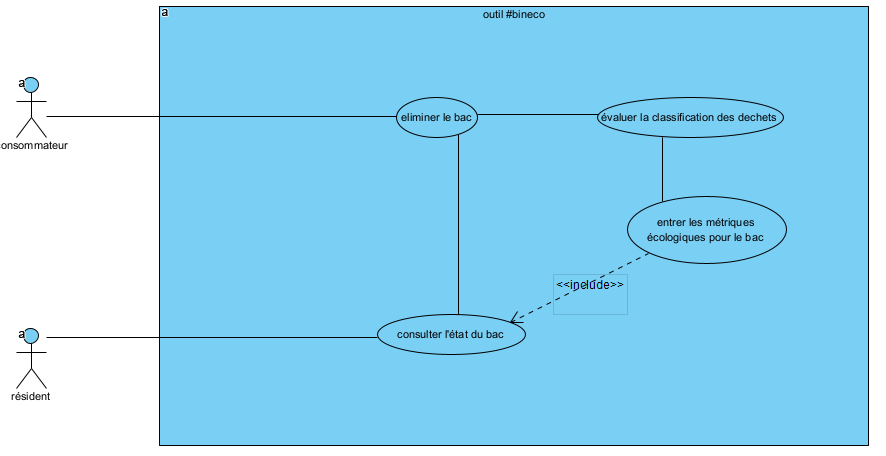
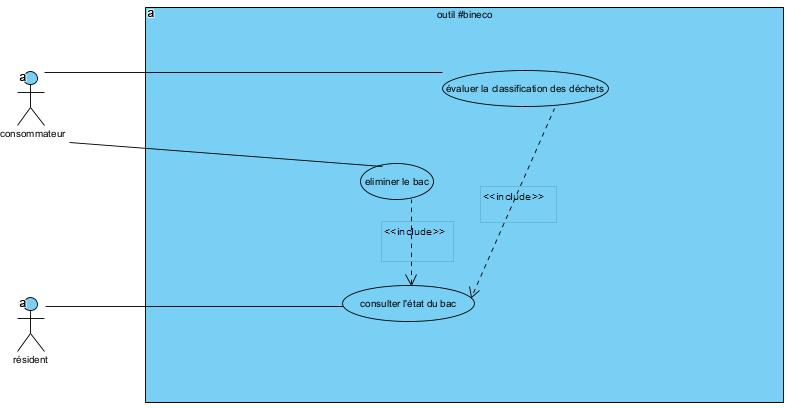
glossaire, scenario, member-img et CU changements

diff --git a/projet_2255/Projet_app.html b/projet_2255/Projet_app.html
@@ -411,7 +411,7 @@
                     <span class="member-role">Chargé de...</span>
                 </li>
                 <li class="member">
-                    <img class="member-pic" src="" alt="" >
+                    <img class="member-pic" src="project img\qiwu.png" alt="Qiwu" >
                     <div class="member-identification">
                         <span class="member-name">Qiwu Wen</span>
                         <span class="member-id">20230961</span>
@@ -581,7 +581,7 @@
 
                 <h3 class="subsection-title">Glossaire</h3>
                 <dl class="glossary">
-                    <dt class="glossary-term">Client</dt>
+                    <dt class="glossary-term">Client </dt>
                     <dd class="glossary-def">Definition toute personne pouvant utiliser l’outil Bineco (résident ou consommateur)</dd>
                     <dt class="glossary-term">Service d’assainissement</dt>
                     <dd class="glossary-def">services des rues urbaines fournis pour maintenir la sécurité de la santé publique</dd>
@@ -593,10 +593,10 @@
                     <dd class="glossary-def">Utilisé pour trier les déchets. Il existe trois types de déchets : recyclable, compostable et ordures</dd>
                     <dt class="glossary-term">Bac</dt>
                     <dd class="glossary-def">bac-poubelle numéroté lié à chaque résident, chaque résident a deux bacs pour chaque type de déchet.</dd>
-                    <dt class="glossary-term">Camion</dt>
-                    <dd class="glossary-def">véhicule utilisé pour transporter les bacs.</dd>
+                    <dt class="glossary-term">Ville</dt>
+                    <dd class="glossary-def">Organismes gouvernementaux traitant des problèmes liés à l'urbanisme.</dd>
                     <dt class="glossary-term">Liste des bacs</dt>
-                    <dd class="glossary-def">ne liste de bacs avec les noms des résidents en attente de récupérateur, partagée par plusieurs résidents à proximité</dd>
+                    <dd class="glossary-def">la liste de bacs avec les noms des résidents en attente de récupérateur, partagée par plusieurs résidents à proximité</dd>
                     <dt class="glossary-term">Actions écologiques</dt>
                     <dd class="glossary-def">actions associées à la protection environnementale</dd>
                     <dt class="glossary-term">Métrique écologique</dt>
@@ -702,9 +702,10 @@
                                 <br>
                             Relations   <ul>
                                             <li>Chaque acteur donne ou reçois de l'information </li>
-                                            <li>L'acteur Camion reçois une demande de cueillette (horaire)</li>
+                                            <li>L'acteur secondaire ville reçois une demande de cueillette (horaire)</li>
                                             <li>Transport des déchets vers un consommateur.</li>
                                              <li>Update bac vide pour le résident</li>
+                                             
 
                                         </ul>
                             </ul>
@@ -792,15 +793,15 @@
 
                         <div class="scenario-alt">
                             <h5 class="scenario-alt-title">Scénarios alternatifs</h5>
-                            <ol class="bare-list scenario-alt-steps">
+                            <ul class="bare-list scenario-alt-steps">
                                 <li>
-                                    Le client est déjà un résident.
-                                    <ol>
-                                        <li value="1">Le système affiche le client est déjà un résident.</li>
-                                        <li value="1">Le scénario se termine</li>
-                                    </ol>
+                                    4a. Le client est déjà un résident.
+                                    <ul>
+                                        <li value="1">4a.1. Le système affiche le client est déjà un résident.</li>
+                                        <li value="1">4a.2. Le scénario se termine</li>
+                                    </ul>
                                 </li>
-                            </ol>
+                            </ul>
                             
                         </div>
                     </div>
@@ -849,11 +850,10 @@
                             <li class="scenario-main-step">Le resident enregistre un bac</li>
                             <li class="scenario-main-step">Le système ajoute le bac dans la liste des bacs.</li>
                             <li class="scenario-main-step">La liste est pleine.</li>
-                            <li class="scenario-main-step">Le consommateur trouve les bacs vides des résidents qui ont enregistré les bacs</li>
-                            <li class="scenario-main-step">Le consommateur envoie un camion avec les bacs vides.</li>
-                            <li class="scenario-main-step">Le camion récupére les bacs pleins du résident.</li>
-                            <li class="scenario-main-step">Le camion dépose les bacs vides.</li>
-                            <li class="scenario-main-step">Le camion transporte les bacs pleins aux consommateurs.</li>
+                            <li class="scenario-main-step">Le consommateur envoie les numéros des bacs vides des résidents sur la liste</li>
+                            <li class="scenario-main-step">Le consommateur poste une demande d'un camion</li>
+                            <li class="scenario-main-step">La ville reçois les demande et offert des services d’assainissement</li>
+
                             
                             
 
@@ -861,10 +861,12 @@
 
                             <div class="scenario-alt">
                                 <h5 class="scenario-alt-title">Scénarios alternatifs</h5>
-                                        <ol>
-                                            <li>La liste n’est pas pleine.</li>
-                                            <li>1 Les consommateurs attendent que la liste soit pleine avant de passer à l'étape suivante</li>
-                                        </ol>                  
+                                        <ul>
+                                            <li>3a. La liste n’est pas pleine.</li>
+                                            <ul>
+                                            <li>3a.1. Les consommateurs attendent que la liste soit pleine avant de passer à l'étape suivante</li>
+                                            </ul>
+                                        </ul>                  
                             </div>
                         </div>
                     </div>
@@ -914,7 +916,7 @@
                             <li class="scenario-main-step">Le consommateur élimine les déchets dans le bac</li>
                             <li class="scenario-main-step">Le consommateur met à jour le statut du bac.</li>
                             <li class="scenario-main-step">Le consommateur évalue la classification des déchets.</li>
-                            <li class="scenario-main-step">Le consommateur entre une note pour ce bac dans le système.</li>
+                            <li class="scenario-main-step">Le consommateur entre une note pour la classification de ce bac dans le système.</li>
                             <li class="scenario-main-step">Le système évalue les métriques écologiques des nouvelles données du résident et des enregistrements de métriques précédents.</li>
                             <li class="scenario-main-step">Le résident accède aux métriques écologiques</li>
                             
@@ -922,13 +924,13 @@
 
                         <div class="scenario-alt">
                             <h5 class="scenario-alt-title">Scénarios alternatifs</h5>
-                            <ol>
-                                <li value="1">Le résident n’a pas des enregistrements de métriques précédents.</li>
-                             <ol>
-                                <li value="2">le système affiche seulement les nouvelles données.</li>
-                                <li value="3">Le résident accède aux métriques écologiques.</li>
-                             </ol>
-                            </ol>
+                            <ul>
+                                <li value="1">6a. Le résident n’a pas des enregistrements de métriques précédents.</li>
+                             <ul>
+                                <li value="2">6a.1 le système affiche seulement les nouvelles données.</li>
+                                <li value="3">6a.1 Le résident accède aux métriques écologiques.</li>
+                             </ul>
+                            </ul>
                             
                         </div>
                     </div>
